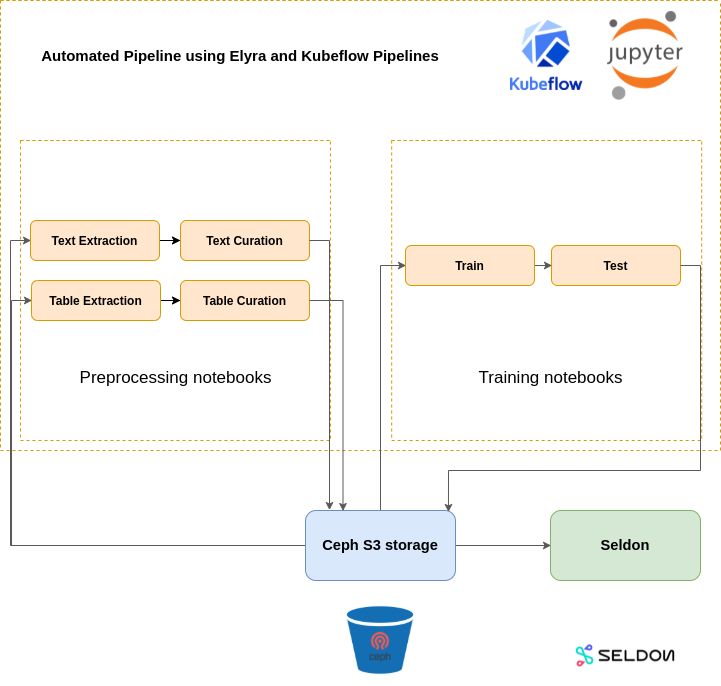
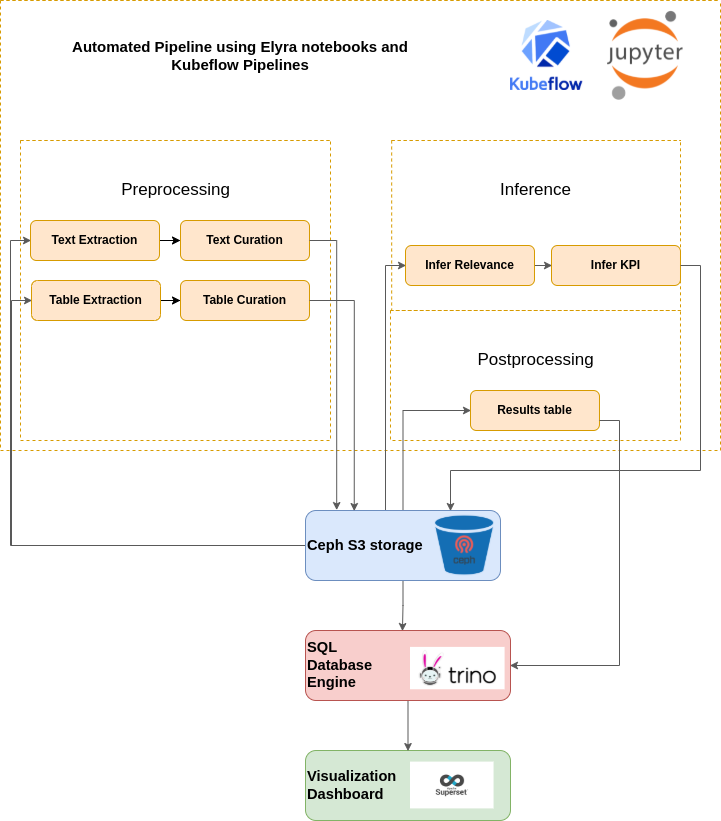
Add push-results-to-trino step to inference pipeline.
Move demo3 content to demo2 for ease in combining steps.

Squashed commits:
- Update create results nb to use config.py
- Add gpu to infer kpi step in pipeline
- Add config as dependency to create-tables in elyra pipeline
- Update README, flowchart to reflect push-results-to-trino step.

diff --git a/notebooks/demo2/config.py b/notebooks/demo2/config.py
@@ -20,6 +20,7 @@ BASE_PDF_FOLDER = DATA_FOLDER / "pdfs"
 BASE_ANNOTATION_FOLDER = DATA_FOLDER / "annotations"
 BASE_EXTRACTION_FOLDER = DATA_FOLDER / "extraction"
 BASE_CURATION_FOLDER = DATA_FOLDER / "curation"
+BASE_INFER_KPI_FOLDER = DATA_FOLDER / "infer_KPI"
 
 CHECKPOINT_S3_PREFIX = "corpdata/saved_models"
 DATA_S3_PREFIX = "corpdata/ESG/pipeline_run/samples_4"
@@ -29,6 +30,7 @@ BASE_EXTRACTION_S3_PREFIX = f"{DATA_S3_PREFIX}/extraction"
 BASE_CURATION_S3_PREFIX = f"{DATA_S3_PREFIX}/curation"
 BASE_INFER_RELEVANCE_S3_PREFIX = f"{DATA_S3_PREFIX}/infer_relevance"
 BASE_INFER_KPI_S3_PREFIX = f"{DATA_S3_PREFIX}/infer_KPI"
+BASE_INFER_KPI_TABLE_S3_PREFIX = f"{DATA_S3_PREFIX}/KPI_table"
 
 ckpt = "icdar_19b2_v2.pth"
 config_file = "cascade_mask_rcnn_hrnetv2p_w32_20e_v2.py"

diff --git a/notebooks/demo2/README.md b/notebooks/demo2/README.md
@@ -1,16 +1,16 @@
+# Demo 2: NLP model inference pipeline using Open Data Hub
 
-# Demo 2: Preprocessing and Training a NLP model with Open Data Hub 
-
-This demo shows how to use [Open Data Hub](https://opendatahub.io/) (ODH)  tools and infrastructure to define pipelines that preprocess data and train a Natural Language Processing (NLP) model. Specifically, we adapt the data and training pipelines developed by the ALLIANZ NLP team for the OS climate project in this [repository](https://github.com/os-climate/corporate_data_pipeline). The data pipeline takes raw pdf files and extracts text and tables from them, and the training pipeline trains a language model that answers questions based on the extracted text and tables. 
-The key components of the ODH infrastructure used in this demo are [JupyterHub](https://JupyterHub-odh-JupyterHub.apps.odh-cl1.apps.os-climate.org/) with a container image, Elyra pipelines with the [kubeflow](http://ml-pipeline-ui-kubeflow.apps.odh-cl1.apps.os-climate.org/) runtime, and a seldon deployment with a service endpoint. The source data, processed data, trained model, and the output data are stored on a bucket on the Ceph S3 storage. The following flowchart depicts the overview of different stages of the project.
+This demo shows how to use [Open Data Hub](https://opendatahub.io/) (ODH) services and infrastructure to define pipelines that preprocess data and run inference using a Natural Language Processing (NLP) model. Specifically, we adapt the data processing and inference pipelines developed by the ALLIANZ NLP team for the OS climate project in this [repository](https://github.com/os-climate/corporate_data_pipeline). The pipeline takes raw pdf files as input and extracts the text content from them. Then, it uses a pre-trained language model to determine which paragraphs are relevant to answering each KPI question. Finally, it uses another pre-trained language model to extract precise answers for these questions from the corresponding relevant paragraphs.
+ 
+The key components of the ODH infrastructure used in this demo are [JupyterHub](https://JupyterHub-odh-JupyterHub.apps.odh-cl1.apps.os-climate.org/) with a container image and Elyra pipelines with the [Kubeflow](http://ml-pipeline-ui-kubeflow.apps.odh-cl1.apps.os-climate.org/) runtime. The source data, processed data, trained model, and the output data are all stored on a bucket on the Ceph S3 storage. The following flowchart depicts the overview of different stages of the project.
 
 ![Demo 2 Flowchart](../../docs/assets/demo2-viz.png)
 
 ## JupyterHub Image Setup (AICoE-CI, Thoth)
 
-To create a reproducible and shareable notebook development environment for the project, we will build a JupyterHub image with all the dependencies and source code baked in. In this section, we will show how to do this using the ODH toolkit. You can also find a more general and detailed README, along with a walkthrough video tutorial [here](https://www.operate-first.cloud/users/data-science-workflows/docs/create_and_deploy_jh_image.md).
+To create a reproducible and shareable notebook development environment for the project, we will build a JupyterHub image with all the dependencies and source code baked into it. In this section, we will show how to do this using the ODH toolkit. You can also find a more general and detailed README, along with a walkthrough video tutorial, [here](https://www.operate-first.cloud/users/data-science-workflows/docs/create_and_deploy_jh_image.md).
 
-To begin with, you can specify the python dependencies of the project via `Pipfile` / `Pipfile.lock`. Next, you need to set up [`aicoe-ci`](https://github.com/AICoE/aicoe-ci) on your github repo. To do so, follow the steps outlined [here](https://github.com/AICoE/aicoe-ci/tree/21e866d165071978bb857350196819ba74234e3e#setting-aicoe-ci-on-github-organizationrepository). In the `aicoe-ci.yaml` file, add `thoth-build` under the `check` section to enable image builds of your repo. You can configure how the image gets built and where it gets pushed by setting the build parameters described [here](https://github.com/AICoE/aicoe-ci/tree/21e866d165071978bb857350196819ba74234e3e#configuring-build-requirements). For example, we'll set `build-strategy: Dockerfile` and `dockerfile-path: Dockerfile` since we want to build our project image using the `Dockerfile` present at the root of the project. Next, in order to enable AICoE-CI to push the image to the image repository, you can create a robot account and provide it with appropriate permissions as described [here](https://www.operate-first.cloud/users/data-science-workflows/docs/create_and_deploy_jh_image.md#setting-up-the-image-repository) (one-time setup). Finally, once AICoE-CI is set up, you can trigger a build of the image by creating a new tag release on your repo.
+To begin with, specify the python dependencies of the project via `Pipfile` / `Pipfile.lock`. Then, create a `Dockerfile` such as [this one](https://github.com/os-climate/aicoe-osc-demo/blob/master/Dockerfile) at the root of the project. In this, you can set the image [name](https://github.com/os-climate/aicoe-osc-demo/blob/master/Dockerfile#L1), git repo [name](https://github.com/os-climate/aicoe-osc-demo/blob/master/Dockerfile#L16) and [url](https://github.com/os-climate/aicoe-osc-demo/blob/master/Dockerfile#L17), and any system-level library [requirements](https://github.com/os-climate/aicoe-osc-demo/blob/master/Dockerfile#L22). Next, you need to set up [`aicoe-ci`](https://github.com/AICoE/aicoe-ci) on your github repo. To do so, follow the steps outlined [here](https://github.com/AICoE/aicoe-ci/tree/21e866d165071978bb857350196819ba74234e3e#setting-aicoe-ci-on-github-organizationrepository). In the `aicoe-ci.yaml` file, add `thoth-build` under the `check` section to enable image builds of your repo. You can configure how the image gets built and where it gets pushed by setting the build parameters described [here](https://github.com/AICoE/aicoe-ci/tree/21e866d165071978bb857350196819ba74234e3e#configuring-build-requirements). For example, we'll set `build-strategy: Dockerfile` and `dockerfile-path: Dockerfile` since we want to build our project image using the `Dockerfile` we created. Next, in order to enable AICoE-CI to push the image to the image repository, you can create a robot account and provide it with appropriate permissions as described [here](https://www.operate-first.cloud/users/data-science-workflows/docs/create_and_deploy_jh_image.md#setting-up-the-image-repository) (one-time setup). Finally, once AICoE-CI is set up, you can trigger a build of the image by creating a new tag release on your repo.
 
 You can also use AICoE-CI to enable other Thoth services such as pre-commit checks, CI tests, etc. by adding `thoth-precommit`, `thoth-pytest`, and so on to the `check` section in `.aicoe-ci.yaml`.
 
@@ -41,19 +41,28 @@ The source code for preprocessing is available in the `src` directory preinstall
 
     * In the text and table curation notebook, we will load the json files (one per pdf) and the corresponding csv files from the s3 bucket, and then add labels to it. For each text extract or table, we will assign label "1" to the correct corresponding text, and label "0" to a randomly selected text that does not correspond to the table. 
 
+## Inference 
 
-## Training
+* Infer relevance
+    * The infer relevance notebook takes in extracted text from the preprocessing stage and for a predefined set of KPI questions, finds relevant paragraphs from the text. These paragraphs are then used to find the exact answers to the questions. The notebook uses a fine-tuned language model stored on s3. The output prediction csv files are saved back on s3.
 
-* Coming soon
+* Infer KPI
+    * The infer kpi notebook takes in the results from the infer relevance stage and for the predefined set of KPI questions, it finds the exact answers from the relevant paragraphs. The notebook uses a fine-tuned language model stored on s3. The output prediction csv files are saved back on s3.
 
+## Trino 
+
+* Results table
+    * The create results table notebook takes the prediction output csv from infer KPI step and creates a Trino SQL table that can be used for querying and visualization in Superset. 
 
 ## Elyra pipeline
 
-* To access and run the automated Elyra pipeline use this [link](placeholder)
+* You can access and run the automated Elyra pipeline for Data Preprocessing (extraction + curation) [here](preprocessing.pipeline)
+
+* You can access and run the automated Elyra pipeline for end-to-end Inference (extraction + infer relevance + infer kpi + create tables) [here](inference.pipeline)
 
 * To setup the Elyra pipeline, use instructions from demo 1 Readme section on [ML pipelines](https://github.com/oindrillac/aicoe-osc-demo/tree/demo1-doc/notebooks/demo1#ml-pipeline)
 
 
-## Inference Service using Seldon
+## Seldon service
 
 * Coming soon
